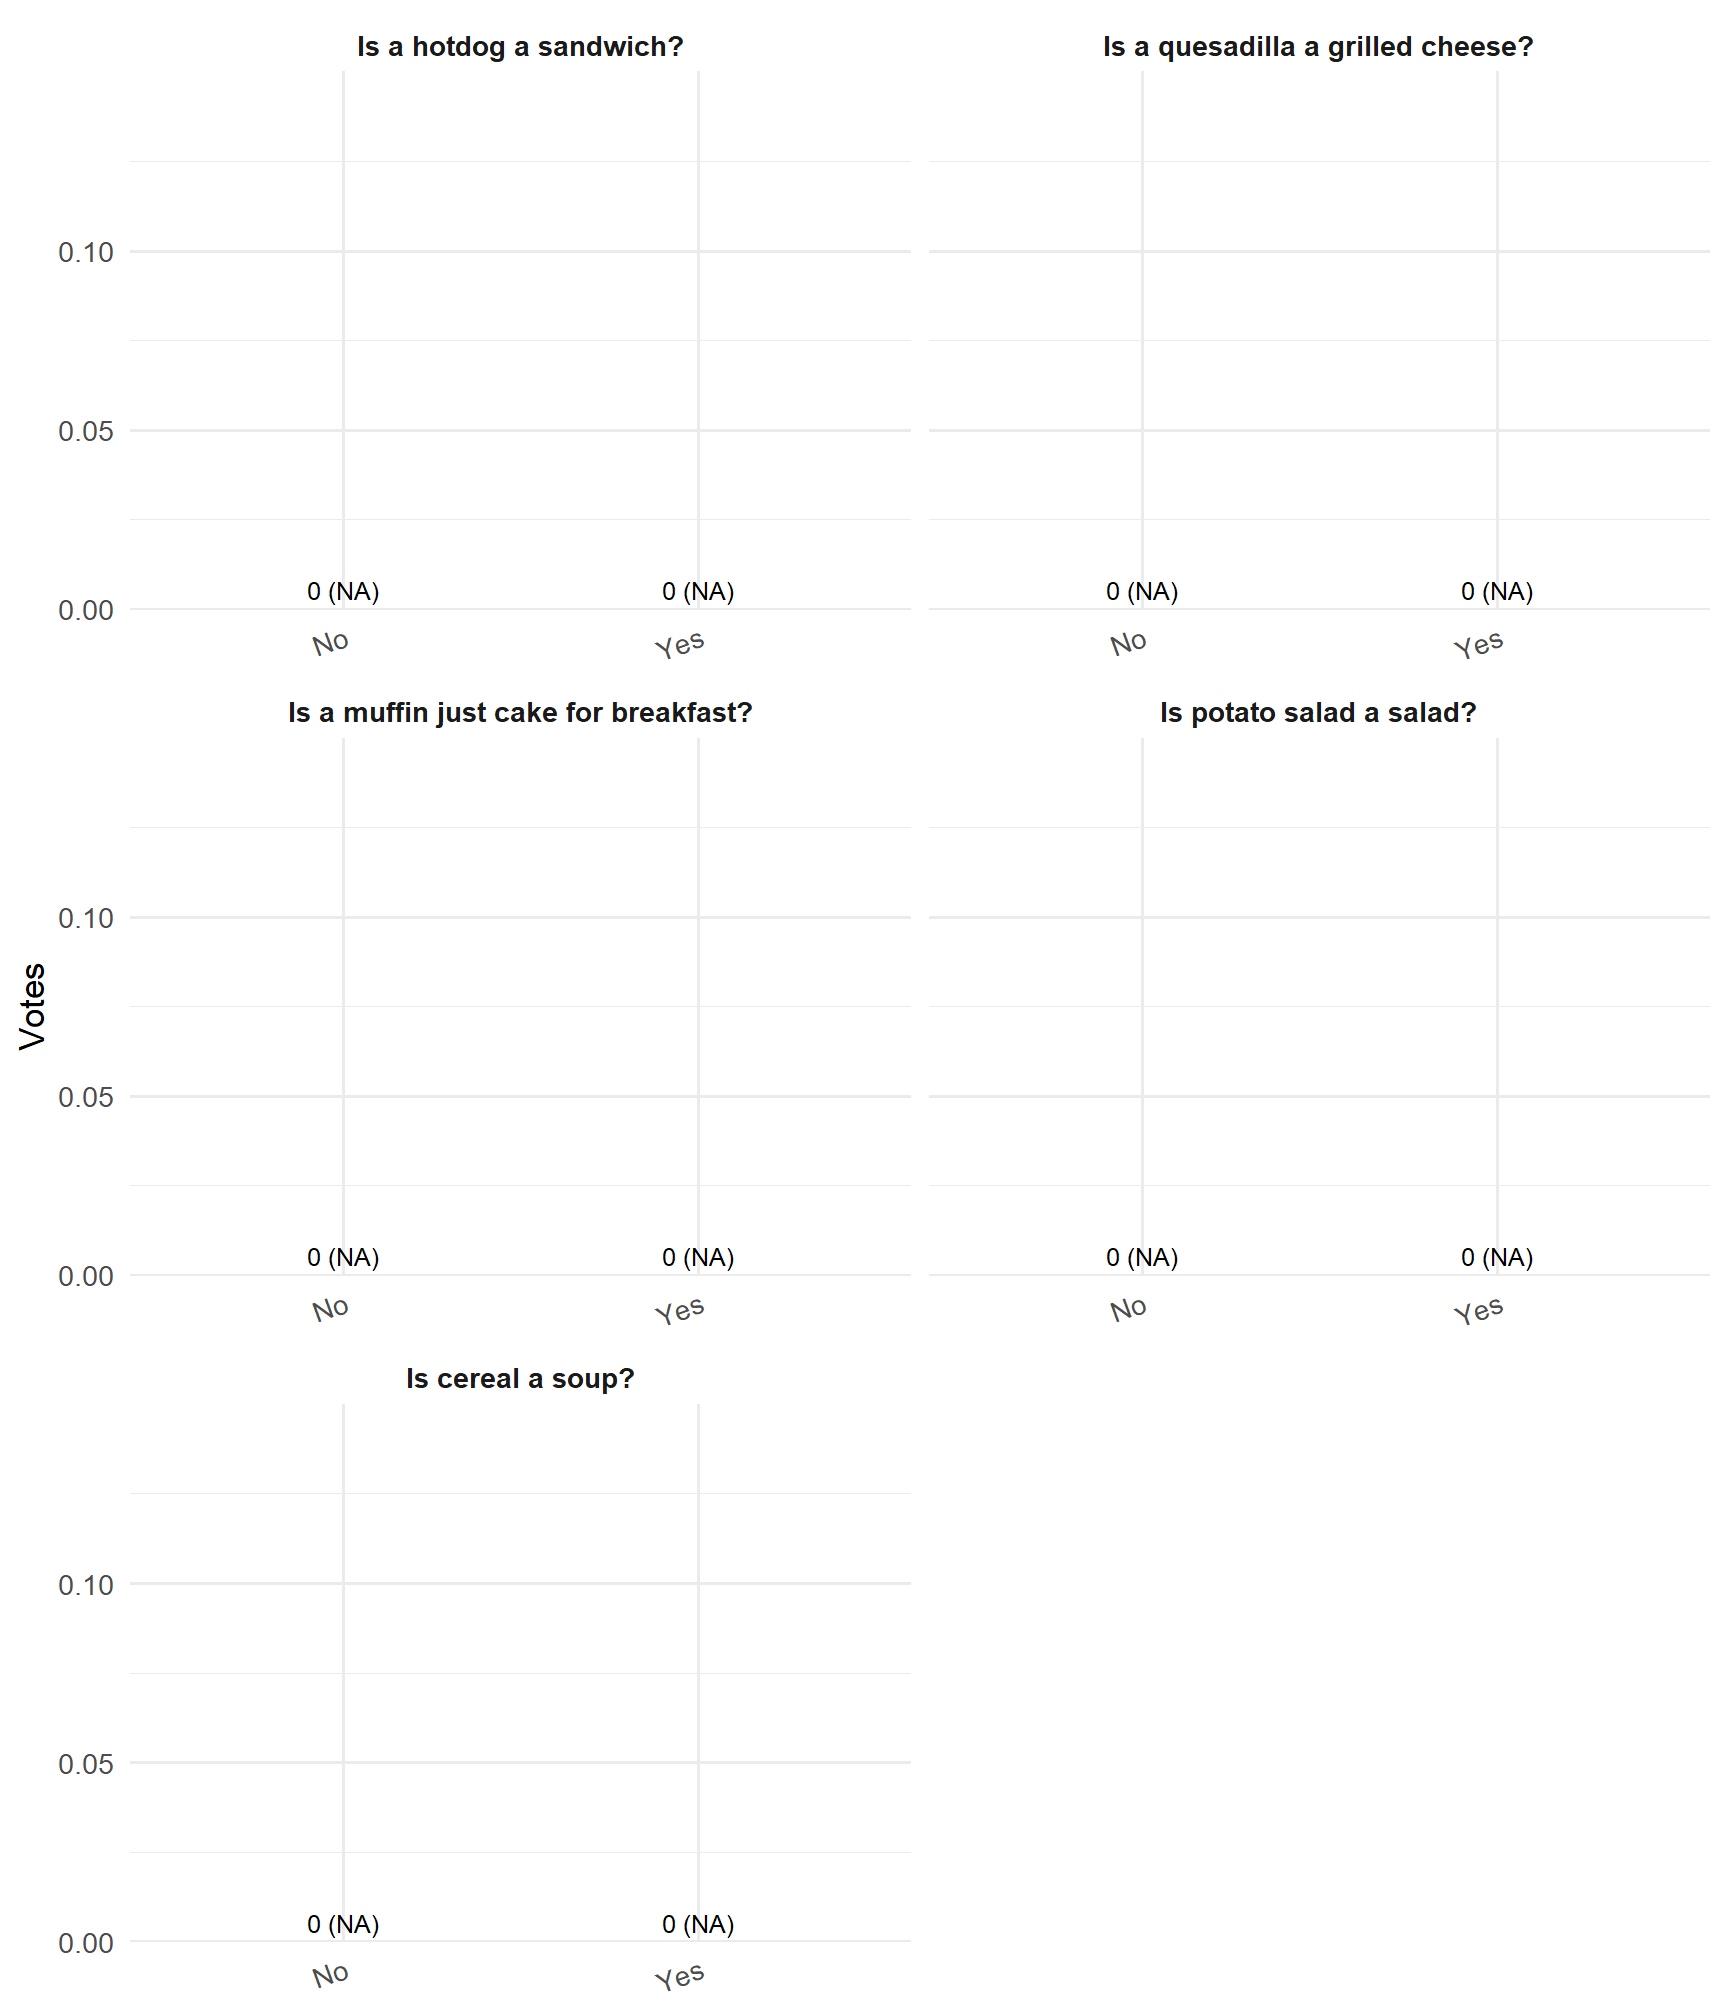
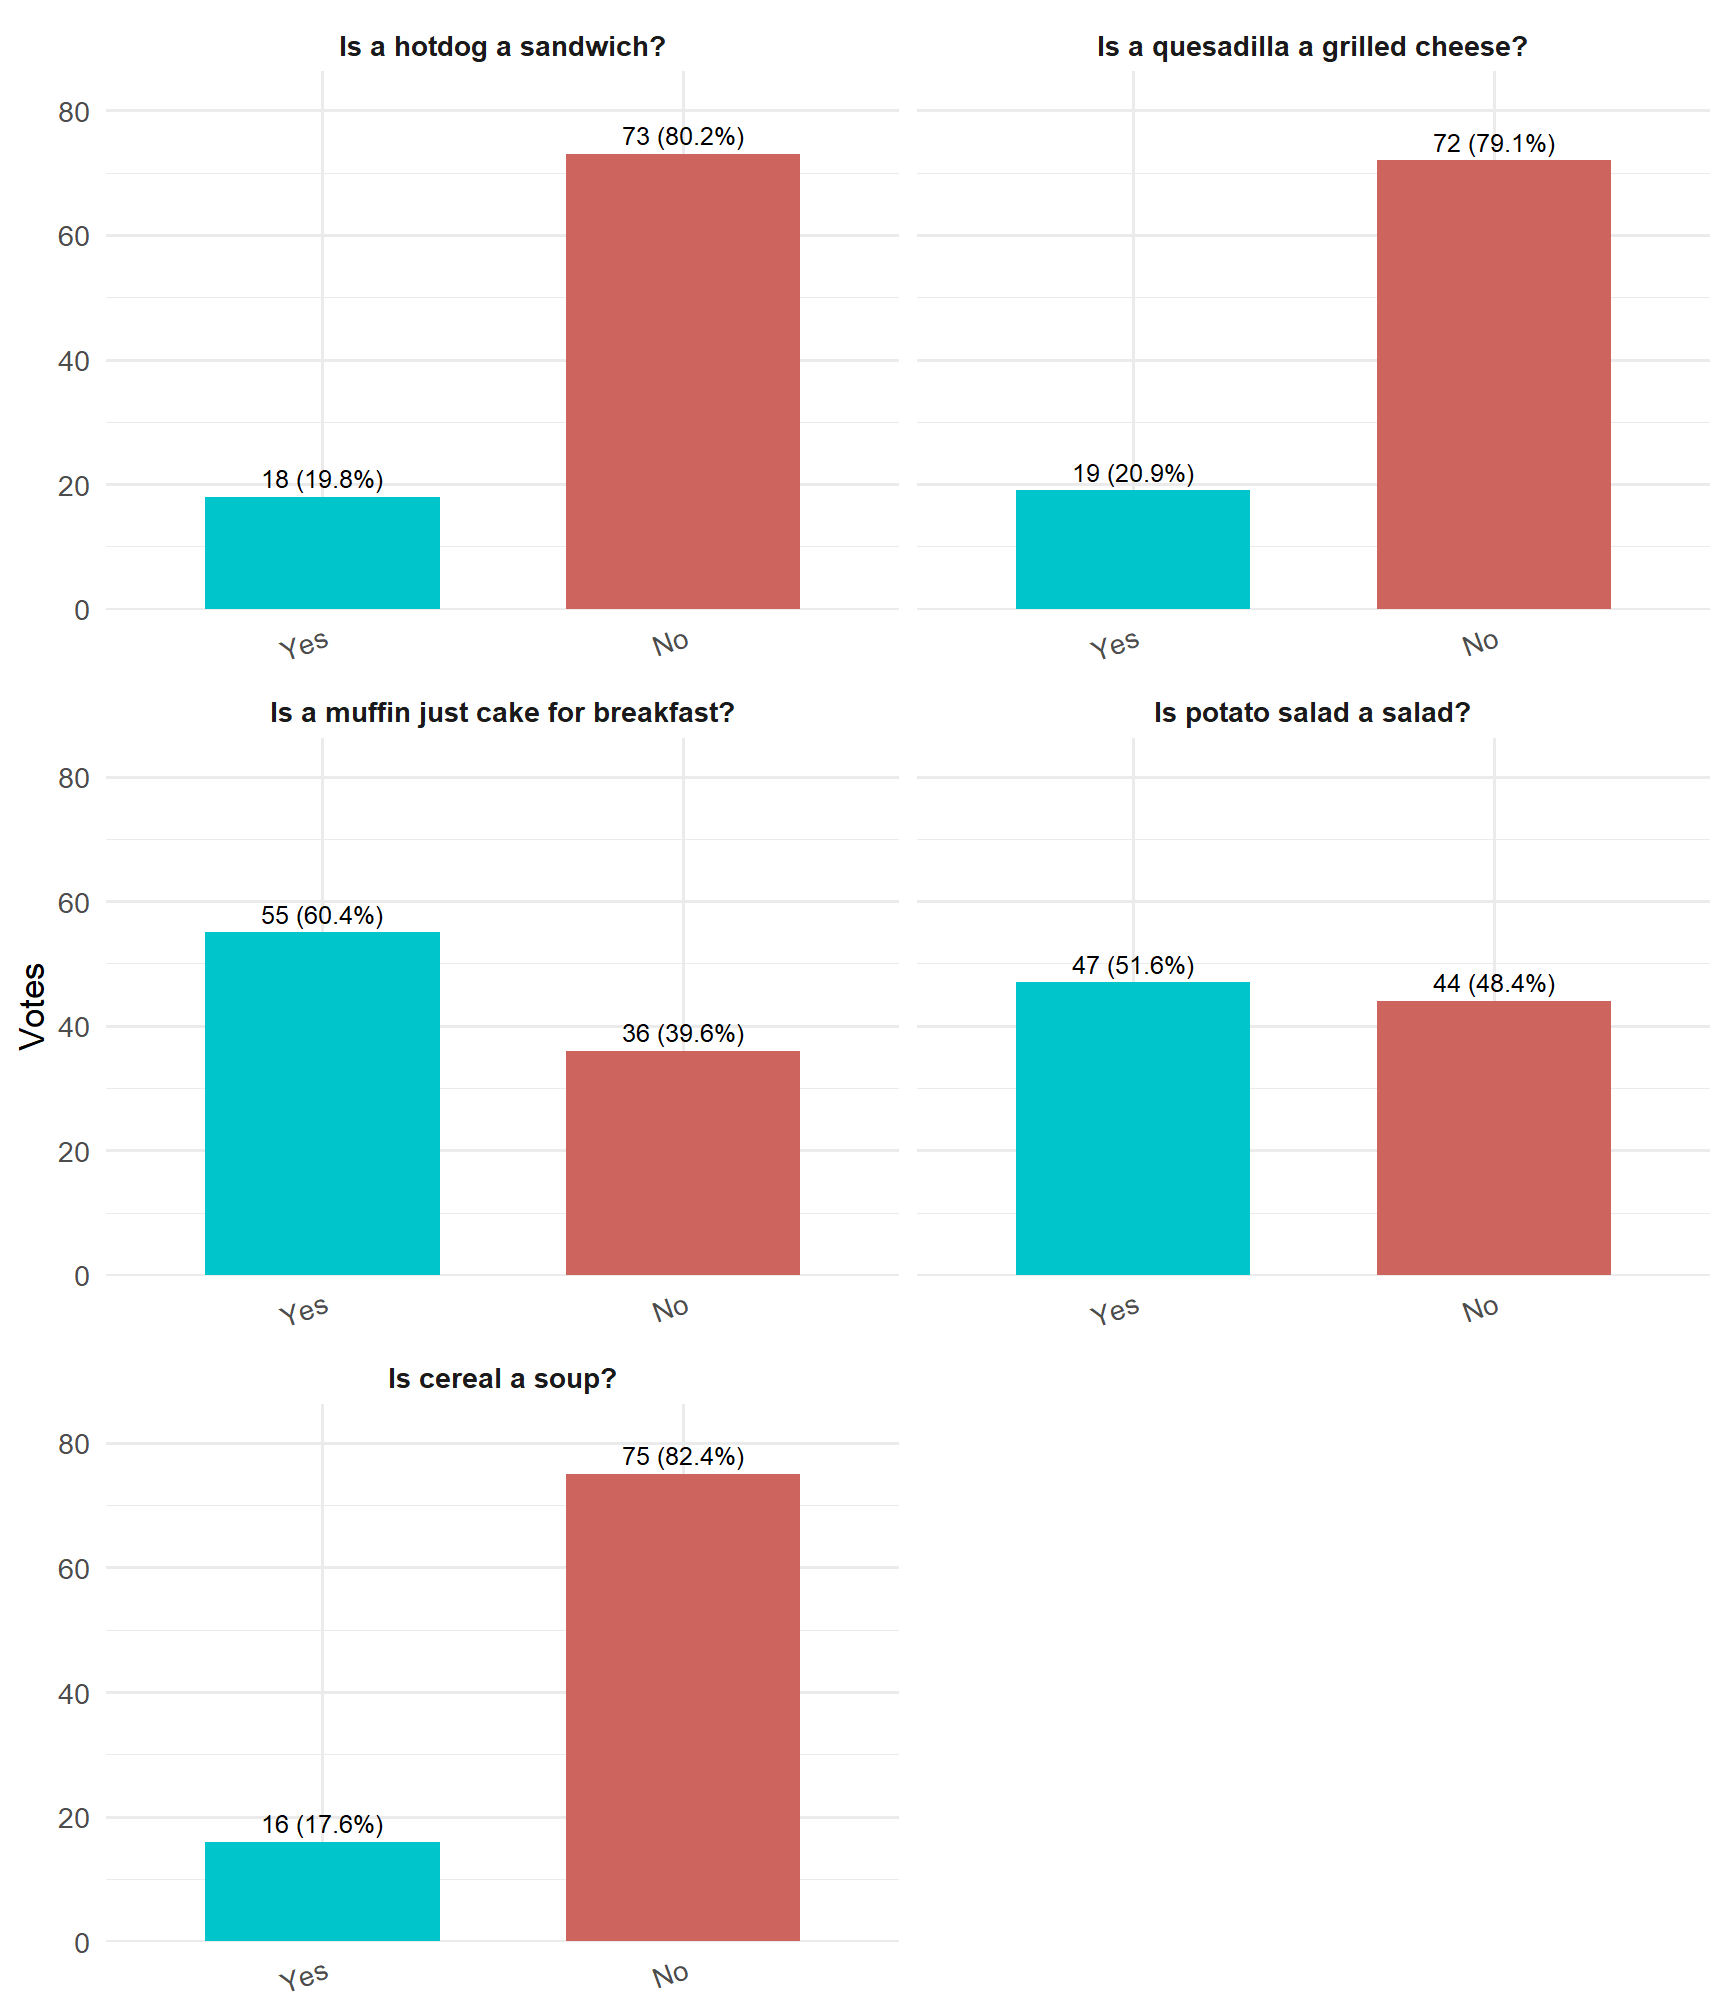
final polarizing provisions poll blog

diff --git a/docs/polls/20260717_polarizing_provisions/index.html b/docs/polls/20260717_polarizing_provisions/index.html
@@ -6,7 +6,7 @@
 
 <meta name="viewport" content="width=device-width, initial-scale=1.0, user-scalable=yes">
 
-<meta name="dcterms.date" content="2026-07-14">
+<meta name="dcterms.date" content="2026-07-17">
 <meta name="description" content="Where do you stand?">
 
 <title>Polarizing Provisions – The Hallway Poll</title>
@@ -121,8 +121,16 @@ ul.task-list li input[type="checkbox"] {
 <div id="quarto-content" class="quarto-container page-columns page-rows-contents page-layout-article page-navbar">
 <!-- sidebar -->
 <!-- margin-sidebar -->
-    <div id="quarto-margin-sidebar" class="sidebar margin-sidebar zindex-bottom">
-        
+    <div id="quarto-margin-sidebar" class="sidebar margin-sidebar">
+        <nav id="TOC" role="doc-toc" class="toc-active">
+    <h2 id="toc-title">On this page</h2>
+   
+  <ul>
+  <li><a href="#how-decisive-were-these-results" id="toc-how-decisive-were-these-results" class="nav-link active" data-scroll-target="#how-decisive-were-these-results">How decisive were these results?</a></li>
+  <li><a href="#does-hq-agree-with-rtp" id="toc-does-hq-agree-with-rtp" class="nav-link" data-scroll-target="#does-hq-agree-with-rtp">Does HQ agree with RTP?</a></li>
+  <li><a href="#do-the-food-traditionalists-stick-together" id="toc-do-the-food-traditionalists-stick-together" class="nav-link" data-scroll-target="#do-the-food-traditionalists-stick-together">Do the food traditionalists stick together?</a></li>
+  </ul>
+</nav>
     </div>
 <!-- main -->
 <main class="content" id="quarto-document-content">
@@ -148,7 +156,7 @@ ul.task-list li input[type="checkbox"] {
     <div>
     <div class="quarto-title-meta-heading">Published</div>
     <div class="quarto-title-meta-contents">
-      <p class="date">July 14, 2026</p>
+      <p class="date">July 17, 2026</p>
     </div>
   </div>
   
@@ -174,8 +182,224 @@ Figure&nbsp;1: Votes and shares for each question (faceted).
 </div>
 </div>
 </div>
+<section id="how-decisive-were-these-results" class="level1">
+<h1>How decisive were these results?</h1>
+<p>Five yes-or-no food debates, all billed as “polarizing.” Let’s see if the votes agree.</p>
+<p><strong>TL;DR:</strong> turns out most of these aren’t polarizing at all. Is cereal a soup? was the least controversial opinion of the week - No won 75–16 (82%), and three of the five questions landed at p &lt; 0.0001 against a coin flip. The one genuine toss-up was Is potato salad a salad?: Yes edged No by just 3 votes out of 91 - the only question in this whole poll that earns the name “polarizing.”</p>
+<div class="cell">
+<div class="cell-output-display">
+<table class="caption-top table table-sm table-striped small">
+<colgroup>
+<col style="width: 24%">
+<col style="width: 1%">
+<col style="width: 9%">
+<col style="width: 10%">
+<col style="width: 8%">
+<col style="width: 9%">
+<col style="width: 10%">
+<col style="width: 7%">
+<col style="width: 9%">
+<col style="width: 9%">
+</colgroup>
+<thead>
+<tr class="header">
+<th style="text-align: left;">question</th>
+<th style="text-align: right;">N</th>
+<th style="text-align: left;">Leader (votes)</th>
+<th style="text-align: left;">Trailer (votes)</th>
+<th style="text-align: left;">Leader share</th>
+<th style="text-align: right;">Margin (votes)</th>
+<th style="text-align: left;">Margin (points)</th>
+<th style="text-align: right;">p vs 50/50</th>
+<th style="text-align: left;">Leader 95% CI</th>
+<th style="text-align: right;">Votes to flip</th>
+</tr>
+</thead>
+<tbody>
+<tr class="odd">
+<td style="text-align: left;">Is a hotdog a sandwich?</td>
+<td style="text-align: right;">91</td>
+<td style="text-align: left;">No (73)</td>
+<td style="text-align: left;">Yes (18)</td>
+<td style="text-align: left;">80.2%</td>
+<td style="text-align: right;">55</td>
+<td style="text-align: left;">60.4%</td>
+<td style="text-align: right;">0.0000</td>
+<td style="text-align: left;">[0.71, 0.88]</td>
+<td style="text-align: right;">28</td>
+</tr>
+<tr class="even">
+<td style="text-align: left;">Is a muffin just cake for breakfast?</td>
+<td style="text-align: right;">91</td>
+<td style="text-align: left;">Yes (55)</td>
+<td style="text-align: left;">No (36)</td>
+<td style="text-align: left;">60.4%</td>
+<td style="text-align: right;">19</td>
+<td style="text-align: left;">20.9%</td>
+<td style="text-align: right;">0.0586</td>
+<td style="text-align: left;">[0.50, 0.71]</td>
+<td style="text-align: right;">10</td>
+</tr>
+<tr class="odd">
+<td style="text-align: left;">Is a quesadilla a grilled cheese?</td>
+<td style="text-align: right;">91</td>
+<td style="text-align: left;">No (72)</td>
+<td style="text-align: left;">Yes (19)</td>
+<td style="text-align: left;">79.1%</td>
+<td style="text-align: right;">53</td>
+<td style="text-align: left;">58.2%</td>
+<td style="text-align: right;">0.0000</td>
+<td style="text-align: left;">[0.69, 0.87]</td>
+<td style="text-align: right;">27</td>
+</tr>
+<tr class="even">
+<td style="text-align: left;">Is cereal a soup?</td>
+<td style="text-align: right;">91</td>
+<td style="text-align: left;">No (75)</td>
+<td style="text-align: left;">Yes (16)</td>
+<td style="text-align: left;">82.4%</td>
+<td style="text-align: right;">59</td>
+<td style="text-align: left;">64.8%</td>
+<td style="text-align: right;">0.0000</td>
+<td style="text-align: left;">[0.73, 0.90]</td>
+<td style="text-align: right;">30</td>
+</tr>
+<tr class="odd">
+<td style="text-align: left;">Is potato salad a salad?</td>
+<td style="text-align: right;">91</td>
+<td style="text-align: left;">Yes (47)</td>
+<td style="text-align: left;">No (44)</td>
+<td style="text-align: left;">51.6%</td>
+<td style="text-align: right;">3</td>
+<td style="text-align: left;">3.3%</td>
+<td style="text-align: right;">0.8340</td>
+<td style="text-align: left;">[0.41, 0.62]</td>
+<td style="text-align: right;">2</td>
+</tr>
+</tbody>
+</table>
+</div>
+</div>
+<div class="cell">
+<div class="cell-output-display">
+<div id="fig-leader-ci" class="quarto-float quarto-figure quarto-figure-center anchored">
+<figure class="quarto-float quarto-float-fig figure">
+<div aria-describedby="fig-leader-ci-caption-0ceaefa1-69ba-4598-a22c-09a6ac19f8ca">
+<a href="index_files/figure-html/fig-leader-ci-1.png" class="lightbox" data-gallery="quarto-lightbox-gallery-2" title="Figure&nbsp;2: Leader shares with 95% confidence intervals."><img src="index_files/figure-html/fig-leader-ci-1.png" class="img-fluid figure-img" width="672"></a>
+</div>
+<figcaption class="quarto-float-caption-bottom quarto-float-caption quarto-float-fig" id="fig-leader-ci-caption-0ceaefa1-69ba-4598-a22c-09a6ac19f8ca">
+Figure&nbsp;2: Leader shares with 95% confidence intervals.
+</figcaption>
+</figure>
+</div>
+</div>
+</div>
+<div class="cell">
+<div class="cell-output-display">
+<div id="fig-waffle-potato-salad" class="quarto-float quarto-figure quarto-figure-center anchored">
+<figure class="quarto-float quarto-float-fig figure">
+<div aria-describedby="fig-waffle-potato-salad-caption-0ceaefa1-69ba-4598-a22c-09a6ac19f8ca">
+<a href="index_files/figure-html/fig-waffle-potato-salad-1.png" class="lightbox" data-gallery="quarto-lightbox-gallery-3" title="Figure&nbsp;3: One square per vote: Is potato salad a salad?"><img src="index_files/figure-html/fig-waffle-potato-salad-1.png" class="img-fluid figure-img" width="576"></a>
+</div>
+<figcaption class="quarto-float-caption-bottom quarto-float-caption quarto-float-fig" id="fig-waffle-potato-salad-caption-0ceaefa1-69ba-4598-a22c-09a6ac19f8ca">
+Figure&nbsp;3: One square per vote: Is potato salad a salad?
+</figcaption>
+</figure>
+</div>
+</div>
+</div>
+</section>
+<section id="does-hq-agree-with-rtp" class="level1">
+<h1>Does HQ agree with RTP?</h1>
+<div class="cell">
+<div class="cell-output-display">
+<table class="caption-top table table-sm table-striped small">
+<colgroup>
+<col style="width: 38%">
+<col style="width: 17%">
+<col style="width: 12%">
+<col style="width: 12%">
+<col style="width: 10%">
+<col style="width: 8%">
+</colgroup>
+<thead>
+<tr class="header">
+<th style="text-align: left;">question</th>
+<th style="text-align: left;">Leader (overall)</th>
+<th style="text-align: left;">HQ share</th>
+<th style="text-align: left;">RTP share</th>
+<th style="text-align: left;">Gap (pts)</th>
+<th style="text-align: right;">p-value</th>
+</tr>
+</thead>
+<tbody>
+<tr class="odd">
+<td style="text-align: left;">Is a hotdog a sandwich?</td>
+<td style="text-align: left;">No</td>
+<td style="text-align: left;">80% (44/55)</td>
+<td style="text-align: left;">81% (29/36)</td>
+<td style="text-align: left;">1%</td>
+<td style="text-align: right;">1.000</td>
+</tr>
+<tr class="even">
+<td style="text-align: left;">Is a muffin just cake for breakfast?</td>
+<td style="text-align: left;">Yes</td>
+<td style="text-align: left;">65% (36/55)</td>
+<td style="text-align: left;">53% (19/36)</td>
+<td style="text-align: left;">13%</td>
+<td style="text-align: right;">0.322</td>
+</tr>
+<tr class="odd">
+<td style="text-align: left;">Is a quesadilla a grilled cheese?</td>
+<td style="text-align: left;">No</td>
+<td style="text-align: left;">80% (44/55)</td>
+<td style="text-align: left;">78% (28/36)</td>
+<td style="text-align: left;">2%</td>
+<td style="text-align: right;">1.000</td>
+</tr>
+<tr class="even">
+<td style="text-align: left;">Is cereal a soup?</td>
+<td style="text-align: left;">No</td>
+<td style="text-align: left;">85% (46/54)</td>
+<td style="text-align: left;">78% (29/37)</td>
+<td style="text-align: left;">7%</td>
+<td style="text-align: right;">0.577</td>
+</tr>
+<tr class="odd">
+<td style="text-align: left;">Is potato salad a salad?</td>
+<td style="text-align: left;">Yes</td>
+<td style="text-align: left;">49% (27/55)</td>
+<td style="text-align: left;">56% (20/36)</td>
+<td style="text-align: left;">6%</td>
+<td style="text-align: right;">0.697</td>
+</tr>
+</tbody>
+</table>
+</div>
+</div>
+<div class="cell">
+<div class="cell-output-display">
+<div id="fig-hq-rtp" class="quarto-float quarto-figure quarto-figure-center anchored">
+<figure class="quarto-float quarto-float-fig figure">
+<div aria-describedby="fig-hq-rtp-caption-0ceaefa1-69ba-4598-a22c-09a6ac19f8ca">
+<a href="index_files/figure-html/fig-hq-rtp-1.png" class="lightbox" data-gallery="quarto-lightbox-gallery-4" title="Figure&nbsp;4: HQ vs RTP support for each question’s overall winner."><img src="index_files/figure-html/fig-hq-rtp-1.png" class="img-fluid figure-img" width="672"></a>
+</div>
+<figcaption class="quarto-float-caption-bottom quarto-float-caption quarto-float-fig" id="fig-hq-rtp-caption-0ceaefa1-69ba-4598-a22c-09a6ac19f8ca">
+Figure&nbsp;4: HQ vs RTP support for each question’s overall winner.
+</figcaption>
+</figure>
+</div>
+</div>
+</div>
+<p>After last week’s record-low reading, the Alignment Index snaps back hard: <strong>0.87</strong> this week (cumulative across the whole RTP era: <strong>0.84</strong>), with no office gap anywhere close to significant. Fittingly, the one place the offices genuinely split is the one question that was already a coin flip overall: Is potato salad a salad?. HQ’s real lean was No, RTP’s was Yes, and the combined vote landed on RTP’s side by a whisker. That’s flip number <strong>9</strong> since RTP joined, and it makes sense that the closest overall race is also the one where HQ and RTP couldn’t agree.</p>
+</section>
+<section id="do-the-food-traditionalists-stick-together" class="level1">
+<h1>Do the food traditionalists stick together?</h1>
+<p>Someone who won’t call a hotdog a sandwich and someone who won’t call cereal a soup both sound like the same kind of stickler for categories. Let’s bound the overlap.</p>
+<p>Both questions drew the same 91 voters, so this bound is about as tight as they get: somewhere between 57 and 73 people (63%–80%) said “no” to <em>both</em> the hotdog-as-sandwich and cereal-as-soup theories, versus about 60 (66%) expected if the two opinions were unrelated. Either way, the food-category traditionalists are a comfortable majority in this office - liberal sandwich and soup definitions are a hard sell.</p>
 
 
+</section>
 
 </main> <!-- /main -->
 <script id="quarto-html-after-body" type="application/javascript">

diff --git a/docs/polls/index.html b/docs/polls/index.html
@@ -221,7 +221,7 @@ window.Quarto = {
     </div>
 </div>
 <div class="list quarto-listing-default">
-<div class="quarto-post image-right" data-index="0" data-categories="Rm9vZA==" data-listing-date-sort="1784001600000" data-listing-file-modified-sort="1784645686409" data-listing-date-modified-sort="NaN" data-listing-reading-time-sort="1" data-listing-word-count-sort="19">
+<div class="quarto-post image-right" data-index="0" data-categories="Rm9vZA==" data-listing-date-sort="1784260800000" data-listing-file-modified-sort="1785414475289" data-listing-date-modified-sort="NaN" data-listing-reading-time-sort="3" data-listing-word-count-sort="590">
 <div class="thumbnail"><a href="../polls/20260717_polarizing_provisions/index.html" class="no-external">
 
 <img loading="lazy" src="../polls/20260717_polarizing_provisions/sandwich.jpg" class="thumbnail-image">
@@ -241,7 +241,7 @@ window.Quarto = {
 <div class="metadata">
 <a href="../polls/20260717_polarizing_provisions/index.html" class="no-external">
 <div class="listing-date">
-2026-07-14
+2026-07-17
 </div>
 </a>
 </div>
